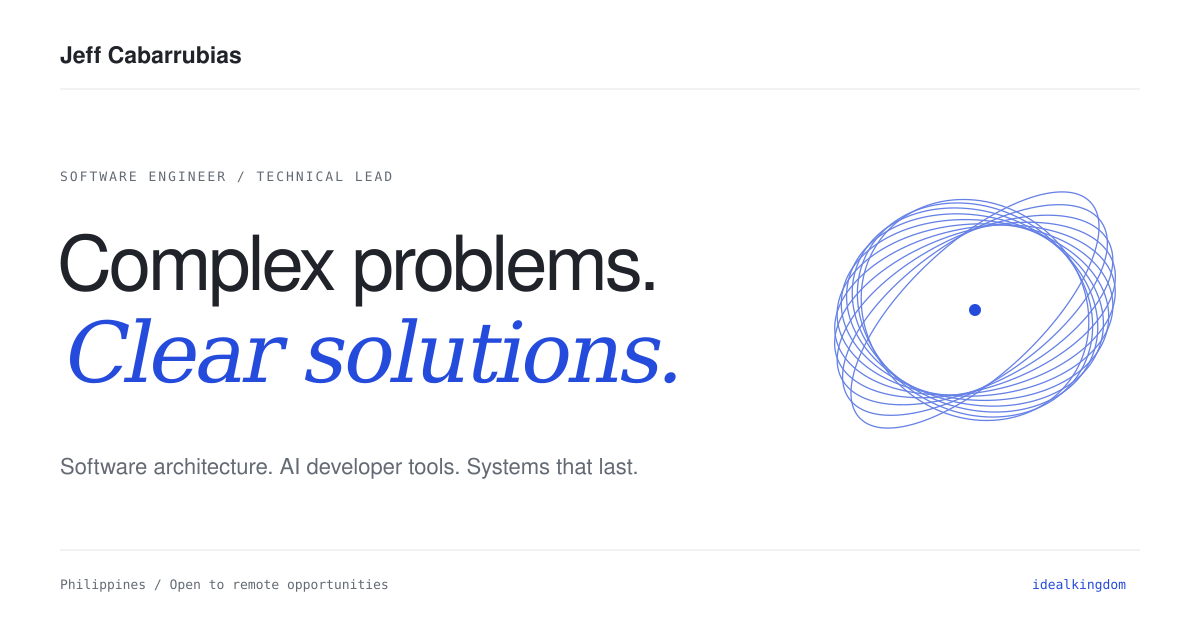
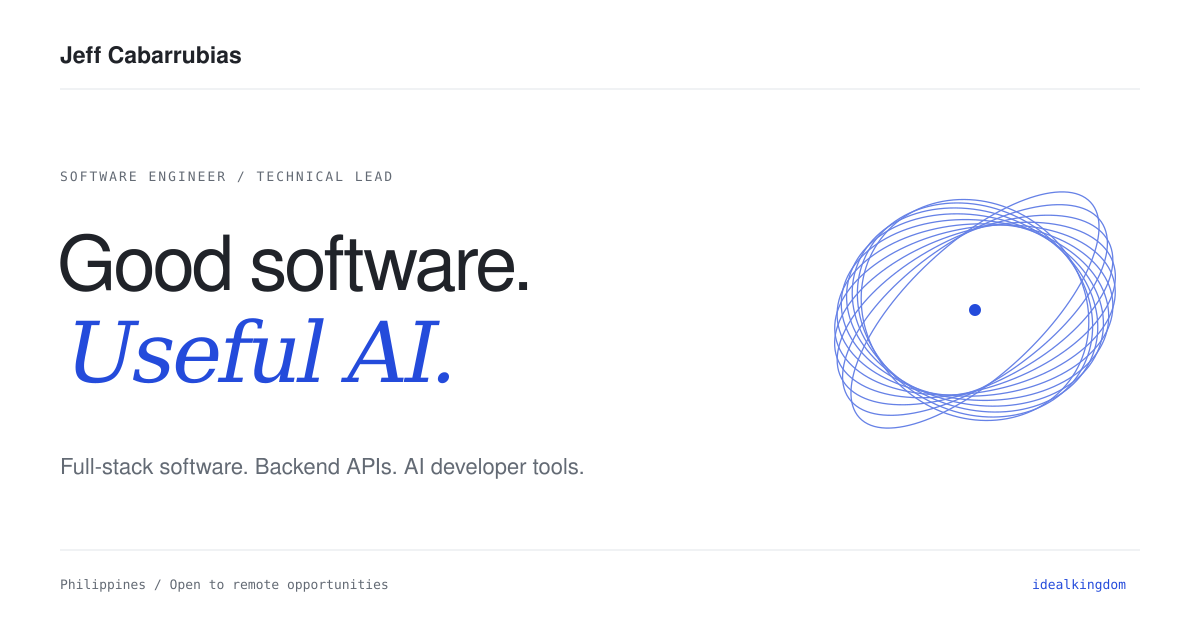
Focus portfolio on software and AI engineering; add AWS skills and Credly

Changed region(s): [[0.0617, 0.3619, 0.5858, 0.6333], [0.0308, 0.7238, 0.5242, 0.754]]

diff --git a/docs/index.html b/docs/index.html
@@ -7,7 +7,7 @@
   <meta name="theme-color" content="#ffffff">
   <meta name="description" content="Jeff Eric Cabarrubias — senior software engineer and technical lead. Software architecture, AI developer tools, and systems modernization. Based in the Philippines, open to remote work.">
   <meta property="og:title" content="Jeff Cabarrubias — Software & AI Engineer">
-  <meta property="og:description" content="Complex problems. Clear solutions. Selected work in software, AI developer tools, and systems modernization.">
+  <meta property="og:description" content="Good software. Useful AI. Full-stack development, backend APIs, software architecture, and AI developer tools.">
   <meta property="og:type" content="website">
   <meta property="og:url" content="https://idealkingdom.github.io/idealkingdom/">
   <meta property="og:image" content="https://idealkingdom.github.io/idealkingdom/assets/social.png">
@@ -25,7 +25,7 @@
     } catch (_) {}
   </script>
   <script type="application/ld+json">
-  {"@context":"https://schema.org","@type":"Person","name":"Jeff Eric Cabarrubias","jobTitle":"Senior Software Engineer / Technical Lead","url":"https://idealkingdom.github.io/idealkingdom/","email":"mailto:jeff.cabarrubias@gmail.com","sameAs":["https://github.com/idealkingdom","https://www.linkedin.com/in/jeff-eric-cabarrubias-9a2271164/"],"knowsAbout":["Software architecture","AI developer tools","Python","JavaScript","TypeScript","C/C++","Systems modernization"]}
+  {"@context":"https://schema.org","@type":"Person","name":"Jeff Eric Cabarrubias","jobTitle":"Senior Software Engineer / Technical Lead","url":"https://idealkingdom.github.io/idealkingdom/","email":"mailto:jeff.cabarrubias@gmail.com","sameAs":["https://github.com/idealkingdom","https://www.linkedin.com/in/jeff-eric-cabarrubias-9a2271164/","https://www.credly.com/users/jeff-eric-cabarrubias/badges/credly"],"knowsAbout":["Software architecture","AI developer tools","Python","JavaScript","TypeScript","C/C++","Systems modernization"]}
   </script>
 </head>
 <body>
@@ -45,8 +45,8 @@
     <section class="hero wrap" aria-labelledby="hero-title">
       <div class="hero-copy">
         <p class="eyebrow"><span class="status-dot" aria-hidden="true"></span> Software engineer & technical lead</p>
-        <h1 id="hero-title">Complex problems.<br><span class="serif accent">Clear solutions.</span></h1>
-        <p class="hero-description">I'm Jeff. I build useful software, AI developer tools, and systems that last. Eight years of learning, building, and taking ownership.</p>
+        <h1 id="hero-title">Good software.<br><span class="serif accent">Useful AI.</span></h1>
+        <p class="hero-description">I'm Jeff. A senior software engineer and technical lead building full-stack applications, backend APIs, and AI developer tools.</p>
         <div class="hero-actions"><a class="button primary" href="#work">Explore my work <span aria-hidden="true">↘</span></a><a class="text-link" href="assets/Jeff_Eric_Cabarrubias_Resume.pdf" download>Download résumé <span aria-hidden="true">↓</span></a></div>
         <p class="location"><svg viewBox="0 0 20 20" aria-hidden="true"><path d="M15.5 8c0 4-5.5 9-5.5 9S4.5 12 4.5 8a5.5 5.5 0 1 1 11 0Z"/><circle cx="10" cy="8" r="1.8"/></svg> Philippines <span aria-hidden="true">/</span> Open to remote opportunities</p>
       </div>
@@ -65,12 +65,12 @@
       </div>
     </section>
 
-    <div class="proof-strip wrap" aria-label="Career highlights">
-      <div><strong>8+</strong><span>years in software</span></div><div><strong>2</strong><span>major KX releases</span></div><div><strong>200+</strong><span>survey projects</span></div><div><strong>4</strong><span>Claude certifications</span></div>
+    <div class="proof-strip capability-strip wrap" aria-label="Engineering focus">
+      <div><strong>Applied AI</strong><span>LLMs & developer tools</span></div><div><strong>Full-stack</strong><span>Web applications</span></div><div><strong>Backend APIs</strong><span>Python & Node.js</span></div><div><strong>Architecture</strong><span>Design through delivery</span></div>
     </div>
 
     <section id="work" class="work-section wrap" aria-labelledby="work-title">
-      <div class="section-heading"><div><p class="eyebrow">Selected work / 01</p><h2 id="work-title">Built to <span class="serif">make a difference.</span></h2></div><p>From developer workflows<br>to the systems underneath.</p></div>
+      <div class="section-heading"><div><p class="eyebrow">Selected work / 01</p><h2 id="work-title">Built to <span class="serif">make a difference.</span></h2></div><p>AI features. Real applications.<br>Useful engineering.</p></div>
       <div class="case-grid">
         <article class="case-card">
           <div class="case-art ai-art" aria-hidden="true">
@@ -83,25 +83,22 @@
           <div class="case-body"><p class="project-meta">Fujitsu / Migration automation</p><h3>A smarter path forward.</h3><p>Built a PowerShell and AI-assisted workflow to identify C migration risks and propose fixes in structured batches.</p><div class="tags"><span>C</span><span>PowerShell</span><span>Automation</span></div><details><summary>Results & approach <span aria-hidden="true">+</span></summary><div class="case-detail">The team completed the project in 2 months against an initial 1–2 year estimate, saving approximately US$70k. I optimized batching and API usage; proposed fixes still needed engineering review and validation.</div></details></div>
         </article>
         <article class="case-card">
-          <div class="case-art systems-art" aria-hidden="true"><div class="systems-top"><span>KX / PRINT SYSTEMS</span><span>EST. 2001</span></div><svg viewBox="0 0 340 155" class="systems-diagram"><path d="M66 77h55m98 0h55M170 29v25m0 48v25"/><rect x="122" y="40" width="96" height="74" rx="13"/><path d="M145 66h50m-50 11h35m-35 11h45"/><rect x="30" y="59" width="36" height="36" rx="6"/><rect x="274" y="59" width="36" height="36" rx="6"/><rect x="154" y="9" width="32" height="20" rx="4"/><rect x="154" y="127" width="32" height="20" rx="4"/></svg><div class="architecture-list"><span>x86</span><span>x64</span><span>ARM</span></div></div>
-          <div class="case-body"><p class="project-meta">Kyocera / Windows printer driver</p><h3>Keep the foundations strong.</h3><p>Led two major KX driver releases, combining hands-on C/C++ development with technical decisions, delivery, and mentoring.</p><div class="tags"><span>C/C++</span><span>Win32</span><span>Technical lead</span></div><details><summary>My contribution <span aria-hidden="true">+</span></summary><div class="case-detail">Handled nearly 300 Jira tickets across two years. Added SHA-2 support for SNMP security and a modern WebView2 help experience while maintaining compatibility across printer models and architectures.</div></details></div>
+          <div class="case-art systems-art" aria-hidden="true"><div class="systems-top"><span>AUTH / API FOUNDATIONS</span><span>REST</span></div><svg viewBox="0 0 340 155" class="systems-diagram"><path d="M66 77h55m98 0h55M170 29v25m0 48v25"/><rect x="122" y="40" width="96" height="74" rx="13"/><path d="M145 66h50m-50 11h35m-35 11h45"/><rect x="30" y="59" width="36" height="36" rx="6"/><rect x="274" y="59" width="36" height="36" rx="6"/><rect x="154" y="9" width="32" height="20" rx="4"/><rect x="154" y="127" width="32" height="20" rx="4"/></svg><div class="architecture-list"><span>JWT</span><span>RBAC</span><span>Refresh</span></div></div>
+          <div class="case-body"><p class="project-meta">AuthScaffold / Backend APIs</p><h3>Build on a solid foundation.</h3><p>A reusable FastAPI starter for user management, JWT authentication, token refresh, and role-based access.</p><div class="tags"><span>Python</span><span>FastAPI</span><span>REST APIs</span></div><a class="case-source" href="https://github.com/idealkingdom/rest-auth-scaffold-fastapi" target="_blank" rel="noopener noreferrer">View source on GitHub <span aria-hidden="true">↗</span></a></div>
         </article>
       </div>
       <p class="work-note">Professional projects shown as summaries; illustrations are conceptual.</p>
 
-      <div class="public-work"><div class="public-heading"><p class="eyebrow">Out in the open</p><a class="text-link" href="https://github.com/idealkingdom" target="_blank" rel="noopener noreferrer">All repositories <span aria-hidden="true">↗</span></a></div><div class="repo-grid">
-        <a class="repo-link" href="https://github.com/idealkingdom/rest-auth-scaffold-fastapi" target="_blank" rel="noopener noreferrer"><div><span class="repo-category">Python / FastAPI</span><h3>AuthScaffold <span aria-hidden="true">↗</span></h3><p>A reusable REST API foundation for authentication, token refresh, and role-based access.</p></div><span class="repo-footer">View source on GitHub</span></a>
-        <a class="repo-link" href="https://github.com/idealkingdom/WinSuture" target="_blank" rel="noopener noreferrer"><div><span class="repo-category">PowerShell / Windows</span><h3>WinSuture <span aria-hidden="true">↗</span></h3><p>A modular Windows repair and optimization toolkit with compatibility checks and granular rollback.</p></div><span class="repo-footer">View source on GitHub</span></a>
-      </div></div>
+      <div class="more-code"><span class="eyebrow">More of what I build</span><a class="text-link" href="https://github.com/idealkingdom" target="_blank" rel="noopener noreferrer">Explore my GitHub <span aria-hidden="true">↗</span></a></div>
     </section>
 
     <section id="about" class="about-section wrap" aria-labelledby="about-title">
       <div class="about-intro"><p class="eyebrow">The person behind the work / 02</p><h2 id="about-title">Curious by nature.<br><span class="serif">Accountable by choice.</span></h2><p>I learn the underlying concepts, then choose the right tools. My work spans web applications, systems programming, and AI. I stay hands-on, take ownership, and help others grow.</p><p class="education">BS Information Technology<br>Cebu Institute of Technology – University</p></div>
-      <div class="experience"><div class="experience-row"><span class="experience-date">2023 — present</span><div><h3>Fujitsu / Weserv</h3><p>Senior Application Systems Engineer / Consultant</p><span>AI tooling · architecture · modernization</span></div></div><div class="experience-row"><span class="experience-date">2021 — 2023</span><div><h3>Kyocera</h3><p>Software Engineer & Technical Lead</p><span>Windows systems · product delivery</span></div></div><div class="experience-row"><span class="experience-date">2018 — 2021</span><div><h3>Dynata</h3><p>Survey Programmer, Web Applications</p><span>200+ projects · internal tools · Einstein Award</span></div></div></div>
-      <div class="toolbox"><div><p class="eyebrow">Tools I work with</p><p>Python · JavaScript · TypeScript · C/C++ · Java<br>Node.js · FastAPI · Electron · SQL · Linux</p></div><div><p class="eyebrow">AI & engineering</p><p>LLM integration · Claude · Developer tools<br>System design · Code review · Workflow automation</p></div><div><p class="eyebrow">Certifications</p><p>Claude: CCAR-F · CCAO-F · CCDV-F · CCAR-P<br>Microsoft Azure AI Fundamentals (AI-900)</p></div></div>
+      <div class="experience"><div class="experience-row"><span class="experience-date">2023 — present</span><div><h3>Fujitsu / Weserv</h3><p>Senior Application Systems Engineer / Consultant</p><span>AI tooling · architecture · modernization</span></div></div><div class="experience-row"><span class="experience-date">2021 — 2023</span><div><h3>Kyocera</h3><p>Software Engineer & Technical Lead</p><span>Software development · technical leadership</span></div></div><div class="experience-row"><span class="experience-date">2018 — 2021</span><div><h3>Dynata</h3><p>Survey Programmer / Web Applications</p><span>Web applications · internal tools · automation</span></div></div></div>
+      <div class="toolbox"><div><p class="eyebrow">Tools I work with</p><p>Python · JavaScript · TypeScript · C/C++ · Java<br>Node.js · FastAPI · Electron · SQL · Linux</p></div><div><p class="eyebrow">AI & engineering</p><p>LLM integration · Claude · Developer tools<br>System design · Code review · Workflow automation</p></div><div><p class="eyebrow">Cloud</p><p>AWS S3 · Lambda · API Gateway<br>Cloud integrations · Serverless functions</p></div><div><p class="eyebrow">Certifications</p><p>Claude Architect: Professional & Foundations<br>Claude Developer & Associate: Foundations<br>Azure AI Fundamentals (AI-900)</p><a class="credential-link" href="https://www.credly.com/users/jeff-eric-cabarrubias/badges/credly" target="_blank" rel="noopener noreferrer">View credentials on Credly ↗</a></div></div>
     </section>
 
-    <section id="contact" class="contact-section" aria-labelledby="contact-title"><div class="wrap contact-inner"><div><p class="eyebrow">Have something in mind? / 03</p><h2 id="contact-title">Let's build<br><span class="serif">something useful.</span></h2><p>Open to long-term remote software and AI engineering roles.</p><a class="contact-email" href="mailto:jeff.cabarrubias@gmail.com">jeff.cabarrubias@gmail.com <span aria-hidden="true">↗</span></a></div><div class="contact-links"><a href="https://github.com/idealkingdom" target="_blank" rel="noopener noreferrer">GitHub <span aria-hidden="true">↗</span></a><a href="https://www.linkedin.com/in/jeff-eric-cabarrubias-9a2271164/" target="_blank" rel="noopener noreferrer">LinkedIn <span aria-hidden="true">↗</span></a><a href="assets/Jeff_Eric_Cabarrubias_Resume.pdf" download>Résumé <span aria-hidden="true">↓</span></a></div></div></section>
+    <section id="contact" class="contact-section" aria-labelledby="contact-title"><div class="wrap contact-inner"><div><p class="eyebrow">Have something in mind? / 03</p><h2 id="contact-title">Let's build<br><span class="serif">something useful.</span></h2><p>Open to long-term remote software and AI engineering roles.</p><a class="contact-email" href="mailto:jeff.cabarrubias@gmail.com">jeff.cabarrubias@gmail.com <span aria-hidden="true">↗</span></a></div><div class="contact-links"><a href="https://github.com/idealkingdom" target="_blank" rel="noopener noreferrer">GitHub <span aria-hidden="true">↗</span></a><a href="https://www.linkedin.com/in/jeff-eric-cabarrubias-9a2271164/" target="_blank" rel="noopener noreferrer">LinkedIn <span aria-hidden="true">↗</span></a><a href="https://www.credly.com/users/jeff-eric-cabarrubias/badges/credly" target="_blank" rel="noopener noreferrer">Credly <span aria-hidden="true">↗</span></a><a href="assets/Jeff_Eric_Cabarrubias_Resume.pdf" download>Résumé <span aria-hidden="true">↓</span></a></div></div></section>
   </main>
   <footer class="site-footer wrap"><span>© <span id="year">2026</span> Jeff Eric Cabarrubias</span><span>Made with care. Built to last.</span><a href="#">Back to top <span aria-hidden="true">↑</span></a></footer>
   <script src="script.js" defer></script>

diff --git a/docs/styles.css b/docs/styles.css
@@ -16,3 +16,8 @@
 @media(max-width:420px){.site-header{display:grid;grid-template-columns:1fr auto;gap:10px 14px}.brand-name{line-height:1.25}.site-header nav{grid-column:1/-1;grid-row:2;gap:24px;margin-left:0}.theme-toggle{grid-column:2;grid-row:1;width:33px;height:33px}.brand{gap:10px}.hero-actions{gap:12px}.button{gap:14px;padding:13px 14px}.text-link{font-size:11px}.hero h1{font-size:clamp(32px,8.5vw,38px)}.hero .eyebrow{font-size:9px}.contact-email{font-size:14px}.contact-inner h2{font-size:40px}.ai-art{padding:26px 20px}.code-lines{font-size:9px}.migration-art,.systems-art{padding:25px}.art-meta{font-size:7px}.site-footer>span{max-width:175px}}
 @media(prefers-reduced-motion:reduce){html{scroll-behavior:auto}*,*::before,*::after{transition:none!important;animation:none!important}}
 @media print{.theme-toggle,.hero-art,.case-art,.hero-actions,.contact-links,.skip-link{display:none!important}:root,:root[data-theme="dark"]{--bg:#fff;--fg:#000;--muted:#444;--line:#ccc;--contact:#fff;--accent:#000}body{font-size:11px}.wrap{width:100%}.hero,.work-section,.about-section,.contact-inner{padding-block:24px}.hero{display:block}.case-grid{display:block}.case-card{break-inside:avoid;margin-bottom:15px}.case-body{padding:15px}.proof-strip strong{font-size:20px}details .case-detail{display:block}h1{font-size:36px}.contact-inner h2{font-size:32px}.toolbox{gap:15px}}
+
+/* Engineering-focused portfolio highlights and source link. */
+.proof-strip.capability-strip>div{display:block}.proof-strip.capability-strip strong{font-size:18px;line-height:1.4;letter-spacing:-.02em}.proof-strip.capability-strip span{display:block;margin-top:5px;font-size:11px}.case-source{display:flex;align-items:center;justify-content:space-between;gap:12px;border-top:1px solid var(--line);font-size:11px;min-height:48px;padding:15px 0}.case-source:hover{color:var(--accent)}.case-source>span{font-size:18px;line-height:1;color:var(--accent)}.more-code{display:flex;align-items:center;justify-content:space-between;gap:20px;margin-top:24px}.more-code .eyebrow{margin:0;font-size:9px}@media(max-width:600px){.case-source{font-size:12px;min-height:52px}.proof-strip.capability-strip strong{font-size:18px}.more-code{gap:10px}.more-code .eyebrow{font-size:8px}}
+
+.toolbox{grid-template-columns:repeat(4,minmax(0,1fr))}.toolbox div>p:not(.eyebrow){font-size:11px;color:var(--muted);line-height:1.9;margin:0}.credential-link{display:inline-block;margin-top:10px;font-size:11px;text-decoration:underline;text-underline-offset:4px}.credential-link:hover{color:var(--accent)}@media(max-width:1050px){.toolbox{grid-template-columns:repeat(2,minmax(0,1fr))}.toolbox>div:last-child{grid-column:auto}}@media(max-width:600px){.toolbox{grid-template-columns:1fr}.toolbox div>p:not(.eyebrow){font-size:12px}.contact-links{display:grid;grid-template-columns:repeat(2,minmax(0,1fr));gap:5px 25px}.contact-links a{justify-content:flex-start}}

diff --git a/PORTFOLIO.md b/PORTFOLIO.md
@@ -5,8 +5,8 @@ Static, dependency-free HTML/CSS/JavaScript in `docs/`. Designed for GitHub Page
 ## Content
 
 - Resume and supplied career details are the content sources.
-- Keiken, migration automation, and KX are described as professional work; their illustrations are conceptual.
-- AuthScaffold and WinSuture link to their public source repositories.
+- Keiken and migration automation are described as professional AI engineering work; their illustrations are conceptual.
+- AuthScaffold is featured as a public Python/FastAPI backend project. Career history stays brief and does not lead with driver-release or survey counts.
 - Light is the default; the explicit theme choice persists locally.
 - Resume download, email, LinkedIn, and GitHub links are included.
 - No analytics, trackers, remote UI assets, forms, or API keys.
